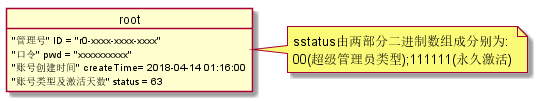
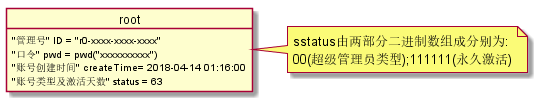
修改密码项,以及其说明

Changed region(s): [[0.1241, 0.505, 0.3102, 0.5941]]

diff --git a/test3/README.md b/test3/README.md
@@ -18,6 +18,7 @@
     1. 在下面对象图中的看见的仅由'x'/'n'/'-'等组成或者一连串的他们的例子,那一定是作者懒得想例子用他们代替.
     2. 其中的"n"表示任意数字;"x"表示任意数字/中文/字母;"-"用于用在以上两者之间起分割作用
     3. 总图什么的不可能有的,和类图差不多干嘛画
+    4. 口令项:"口令" pwd = pwd("xxxxxxxxxx")表示用加密算法'pwd()'将用户输入的密码'xxxxxxxxxx'加密再存储
 ~~~
 ### 2.2.对象图展示
 #### 2.2.1.借阅者对象图
